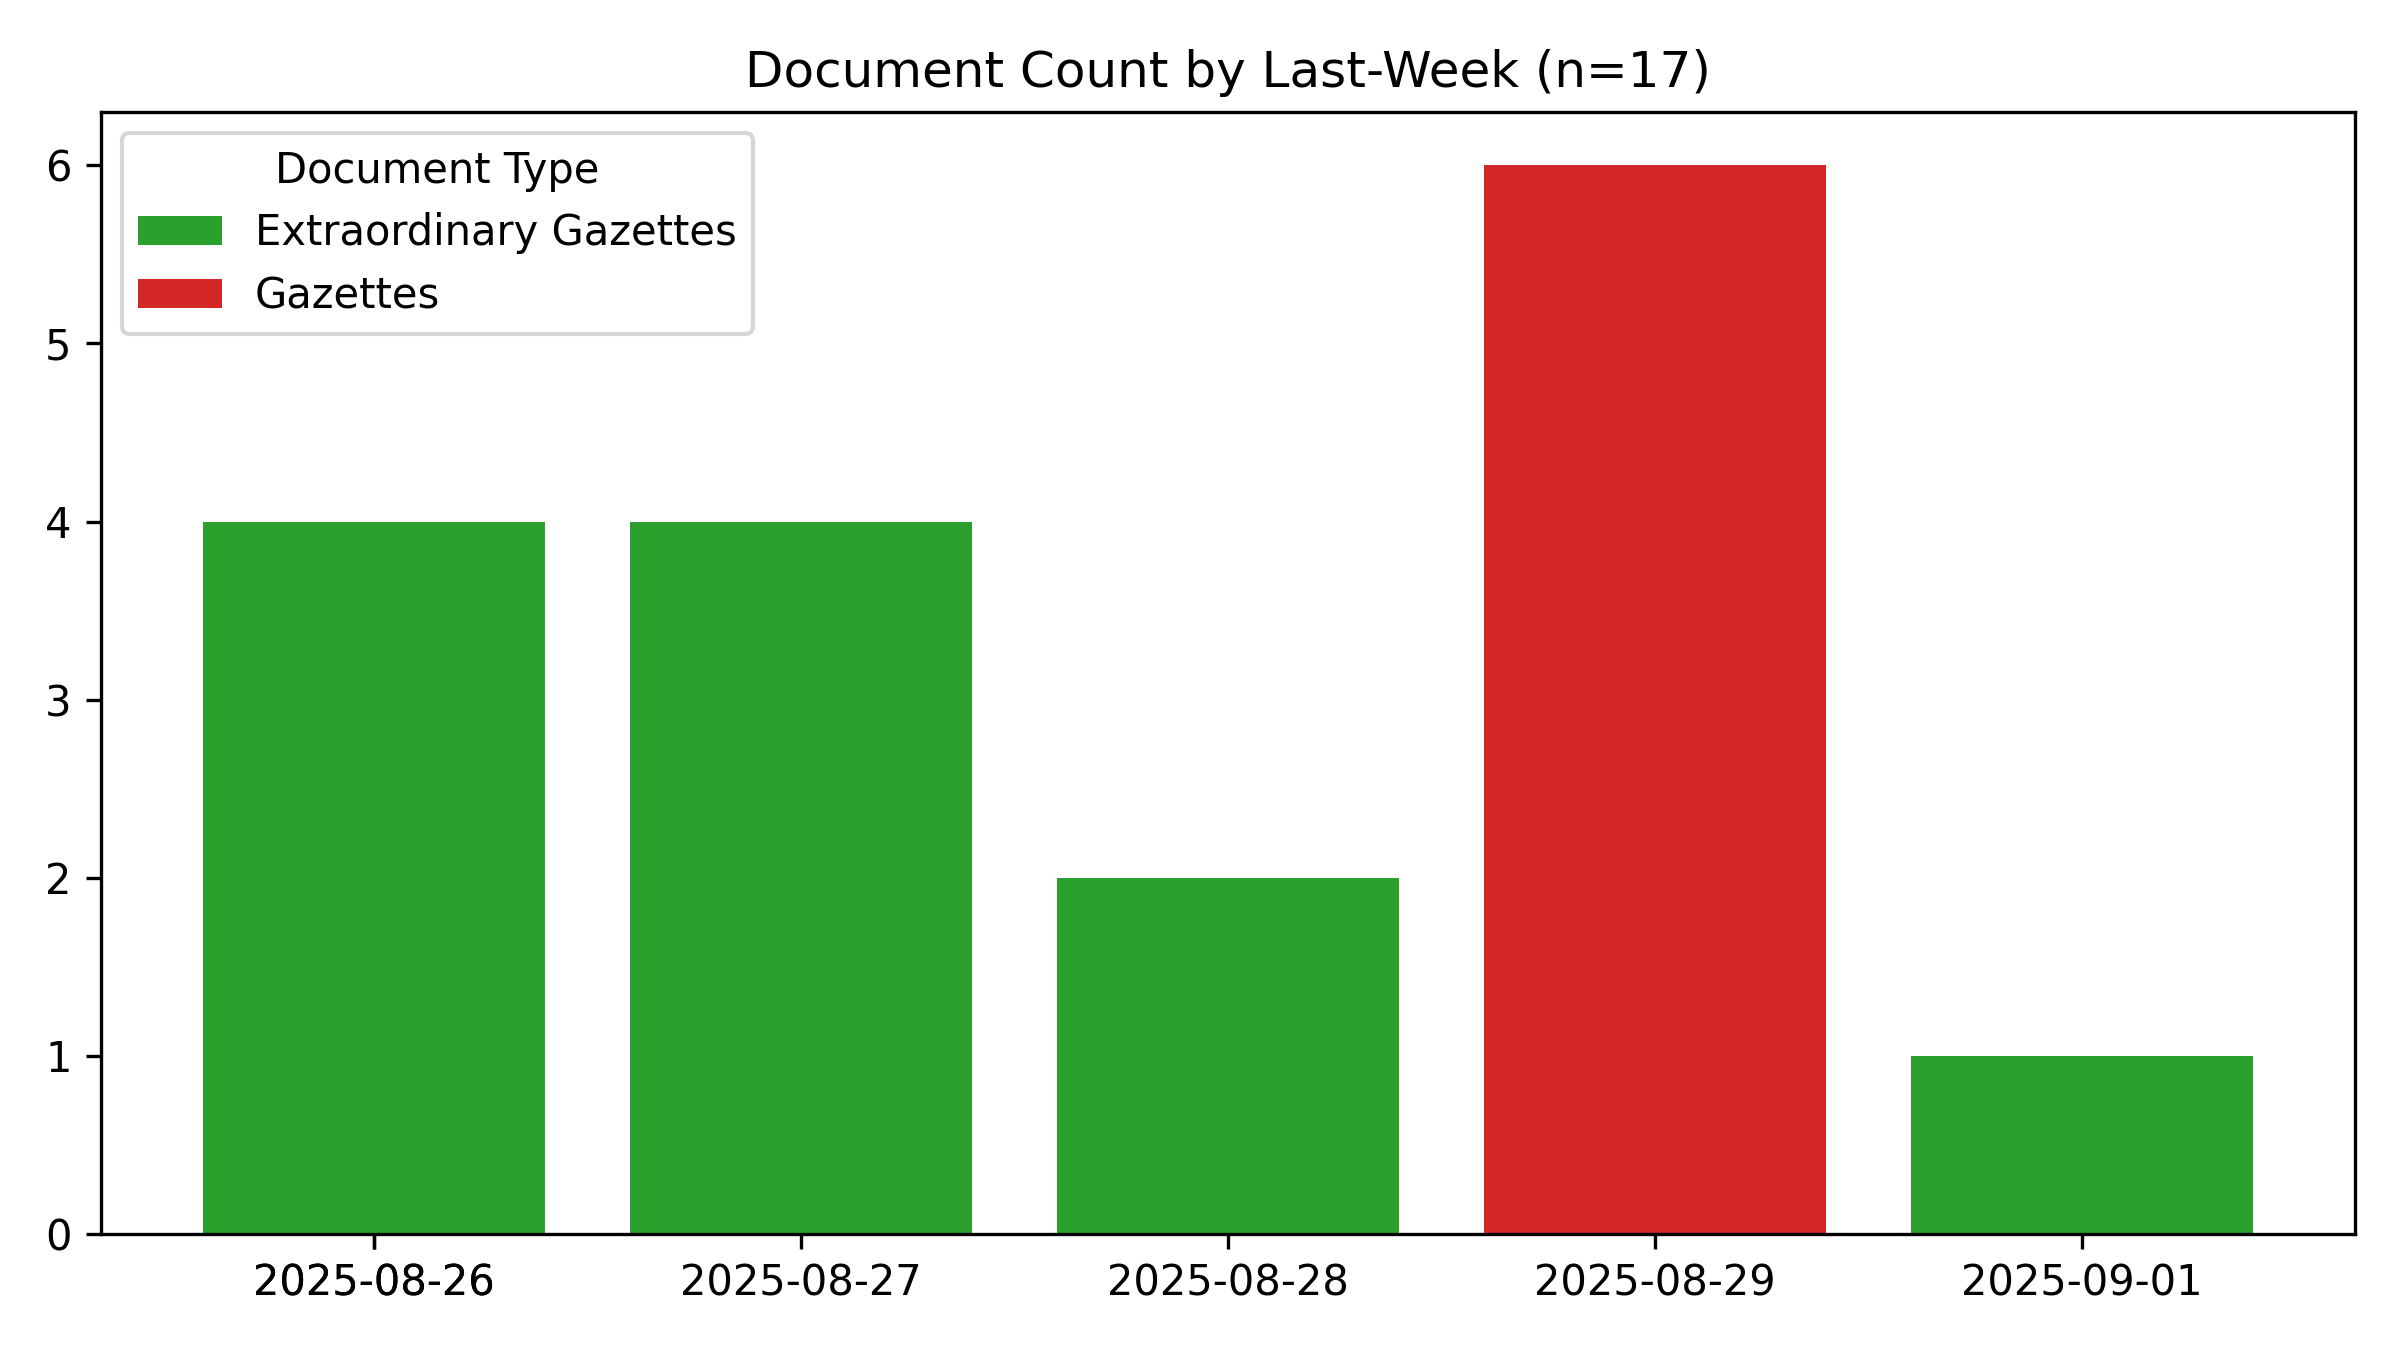
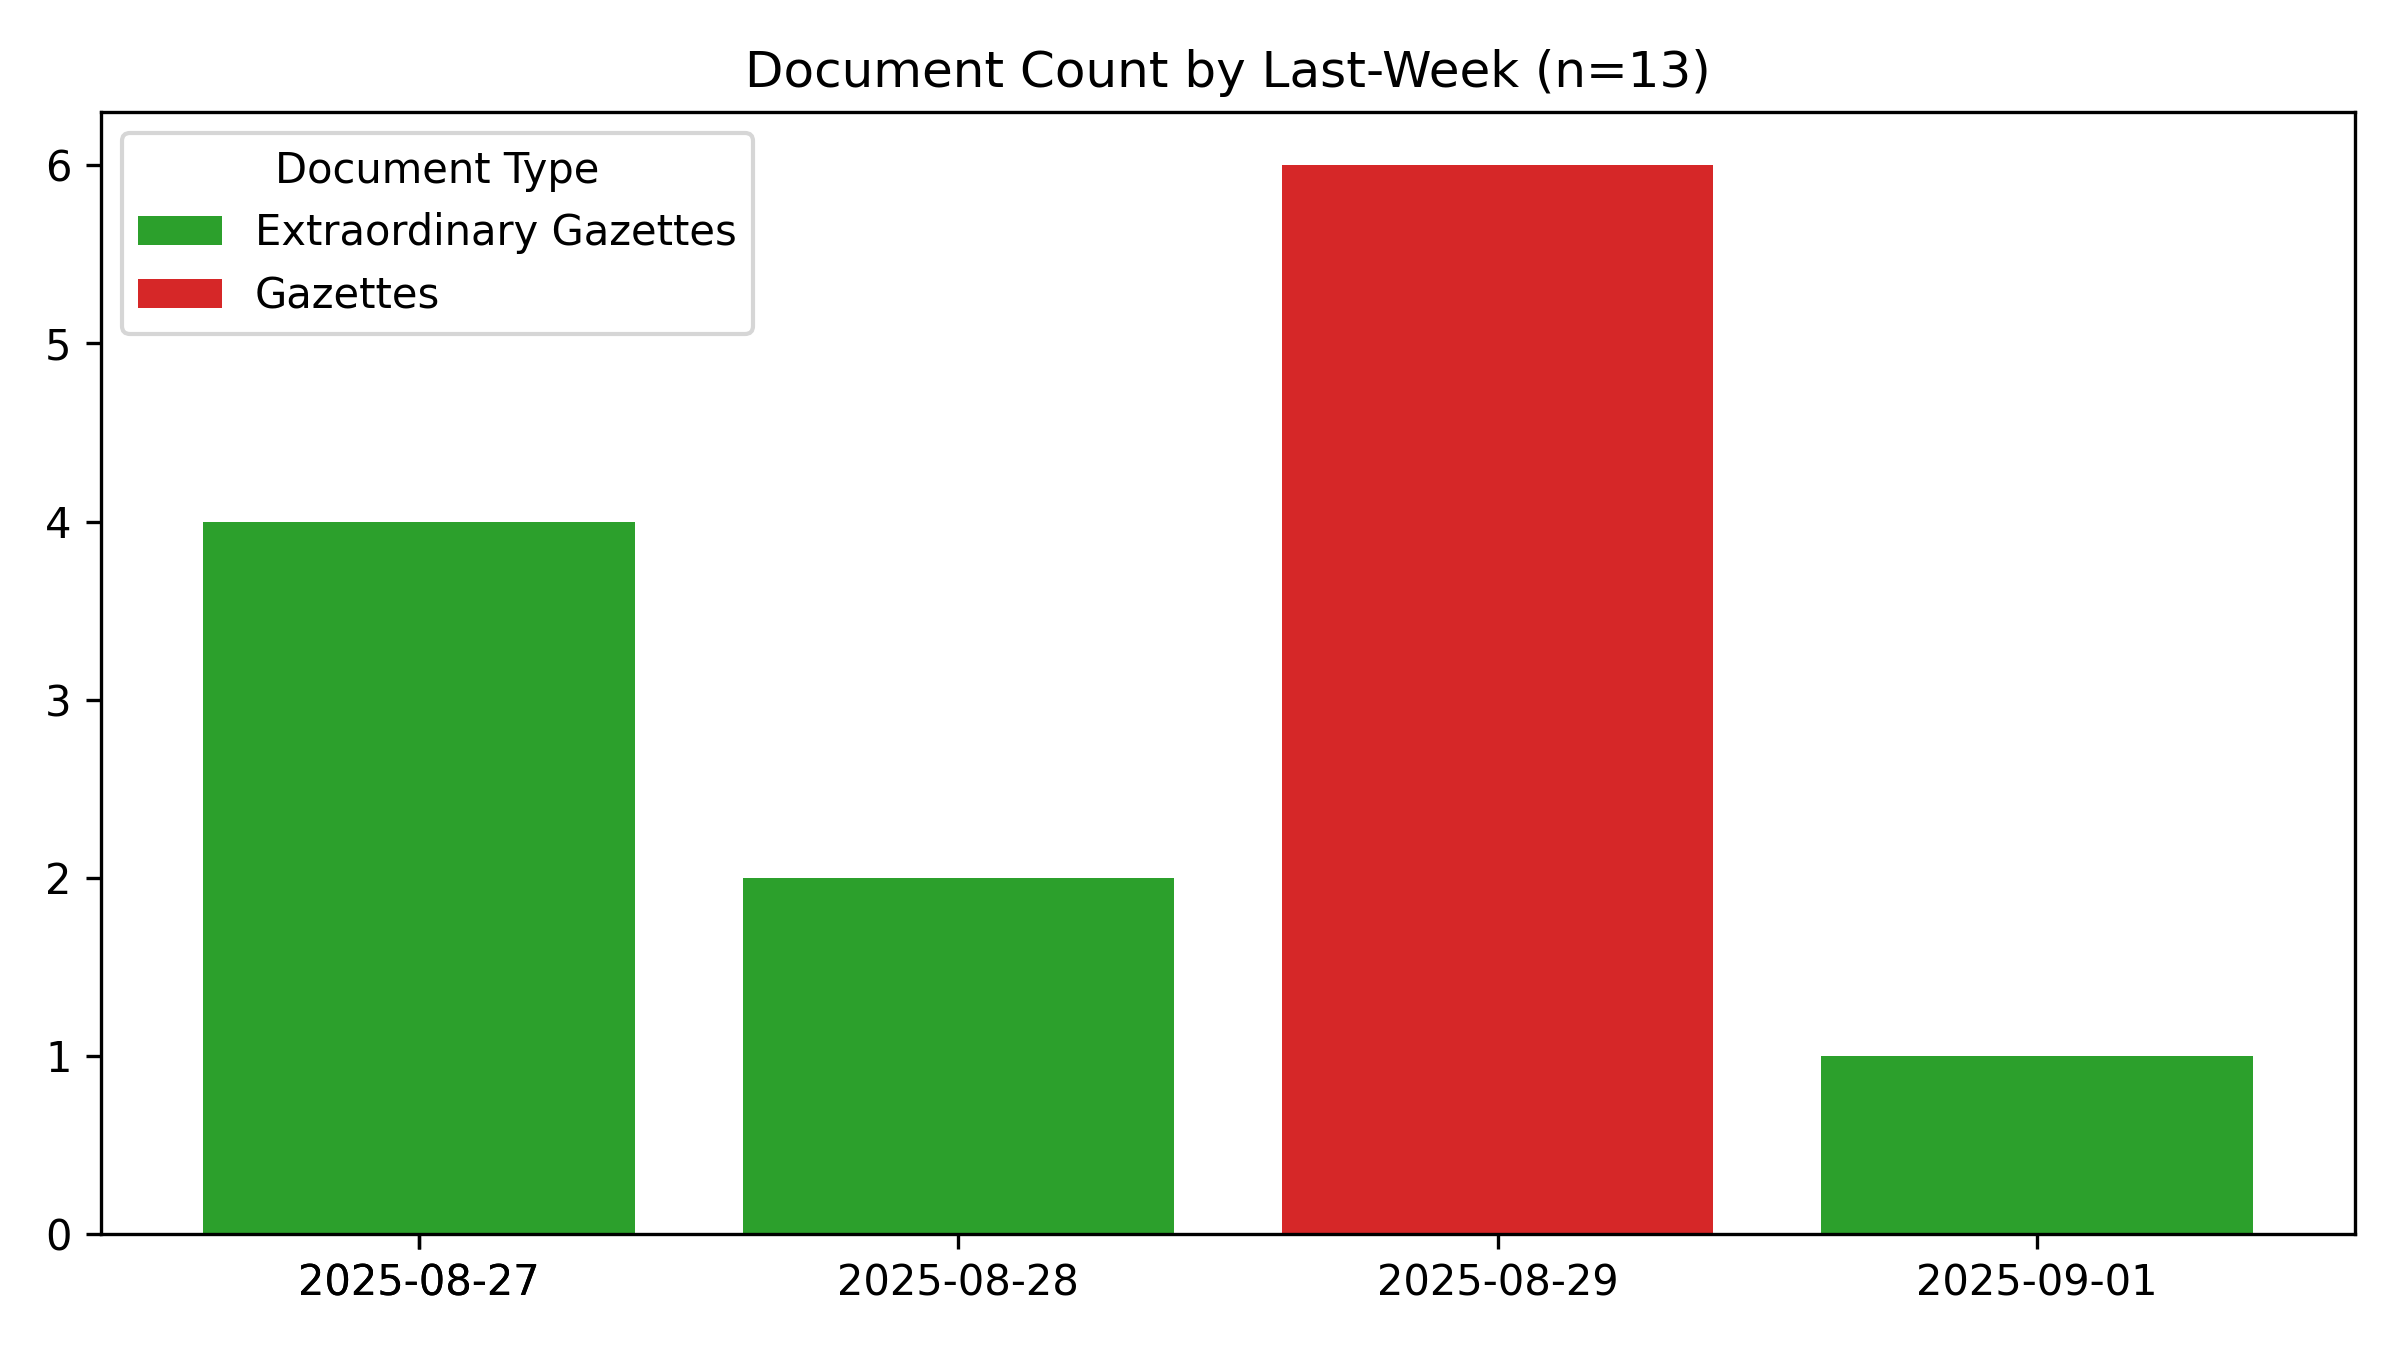
🤖 [build_readme.yml] 2025-09-03-0014

Changed region(s): [[0.2188, 0.1244, 0.9062, 0.9644], [0.0938, 0.9333, 0.2188, 0.9644], [0.6875, 0.0311, 0.7188, 0.0622]]

diff --git a/README.md b/README.md
@@ -1,6 +1,6 @@
 # #SriLanka 🇱🇰 - Legal Documents #Dataset
 
-*Last Updated **2025-09-03 05:12:57**.*
+*Last Updated **2025-09-03 05:44:27**.*
 
 **44,505** documents (24.3 MB), from 1981-01-22 to 2025-09-01.
 
@@ -54,7 +54,7 @@ For best results, use a desktop browser.
 
 ## Recent Documents (Published during the last 7 days)
 
-**17** Documents
+**13** Documents
 
 - 🚨 [2025-09-01] [Sri Lanka Customs - Rates of Exchange with effect from 01.09.2025 to 07.09.2025](https://github.com/nuuuwan/lk_legal_docs_data/tree/data_2020s/data/extra-gazettes/2025/2452-01)
 - 📢 [2025-08-29] [Legal Section](https://github.com/nuuuwan/lk_legal_docs_data/tree/data_2020s/data/gazettes/2025/2025-08-29-legal-section)
@@ -69,7 +69,3 @@ For best results, use a desktop browser.
 - 🚨 [2025-08-27] [M/of Youth Affairs and Sports- Under Section 32 and 33 of Sports Law No. 25 of 1973 Temporarily Suspend the registration of Karate and Appointed a Woring Task Force](https://github.com/nuuuwan/lk_legal_docs_data/tree/data_2020s/data/extra-gazettes/2025/2451-24)
 - 🚨 [2025-08-27] [M/of Public Administration P.C and L.G - Appointments Under the Notaries Ordinance](https://github.com/nuuuwan/lk_legal_docs_data/tree/data_2020s/data/extra-gazettes/2025/2451-17)
 - 🚨 [2025-08-27] [Presidential Secretariat - Public Security Ordinance (Chapter 40) Order](https://github.com/nuuuwan/lk_legal_docs_data/tree/data_2020s/data/extra-gazettes/2025/2451-15)
-- 🚨 [2025-08-26] [Public Utilities Sri Lanka Electricity Act, No. 20 of 2009 (Amended) issuance of Certificate of Exemption](https://github.com/nuuuwan/lk_legal_docs_data/tree/data_2020s/data/extra-gazettes/2025/2451-14)
-- 🚨 [2025-08-26] [2451/13](https://github.com/nuuuwan/lk_legal_docs_data/tree/data_2020s/data/extra-gazettes/2025/2451-13)
-- 🚨 [2025-08-26] [Coast Conservation and Coastal Resource Management Department- Environmental Impact Assessment Report Proposed Project on 220 Units of appartments](https://github.com/nuuuwan/lk_legal_docs_data/tree/data_2020s/data/extra-gazettes/2025/2451-12)
-- 🚨 [2025-08-26] [Ministry of Energy - Sri Lanka Electricity Act, no 36 of 2024 Regulation](https://github.com/nuuuwan/lk_legal_docs_data/tree/data_2020s/data/extra-gazettes/2025/2451-11)
